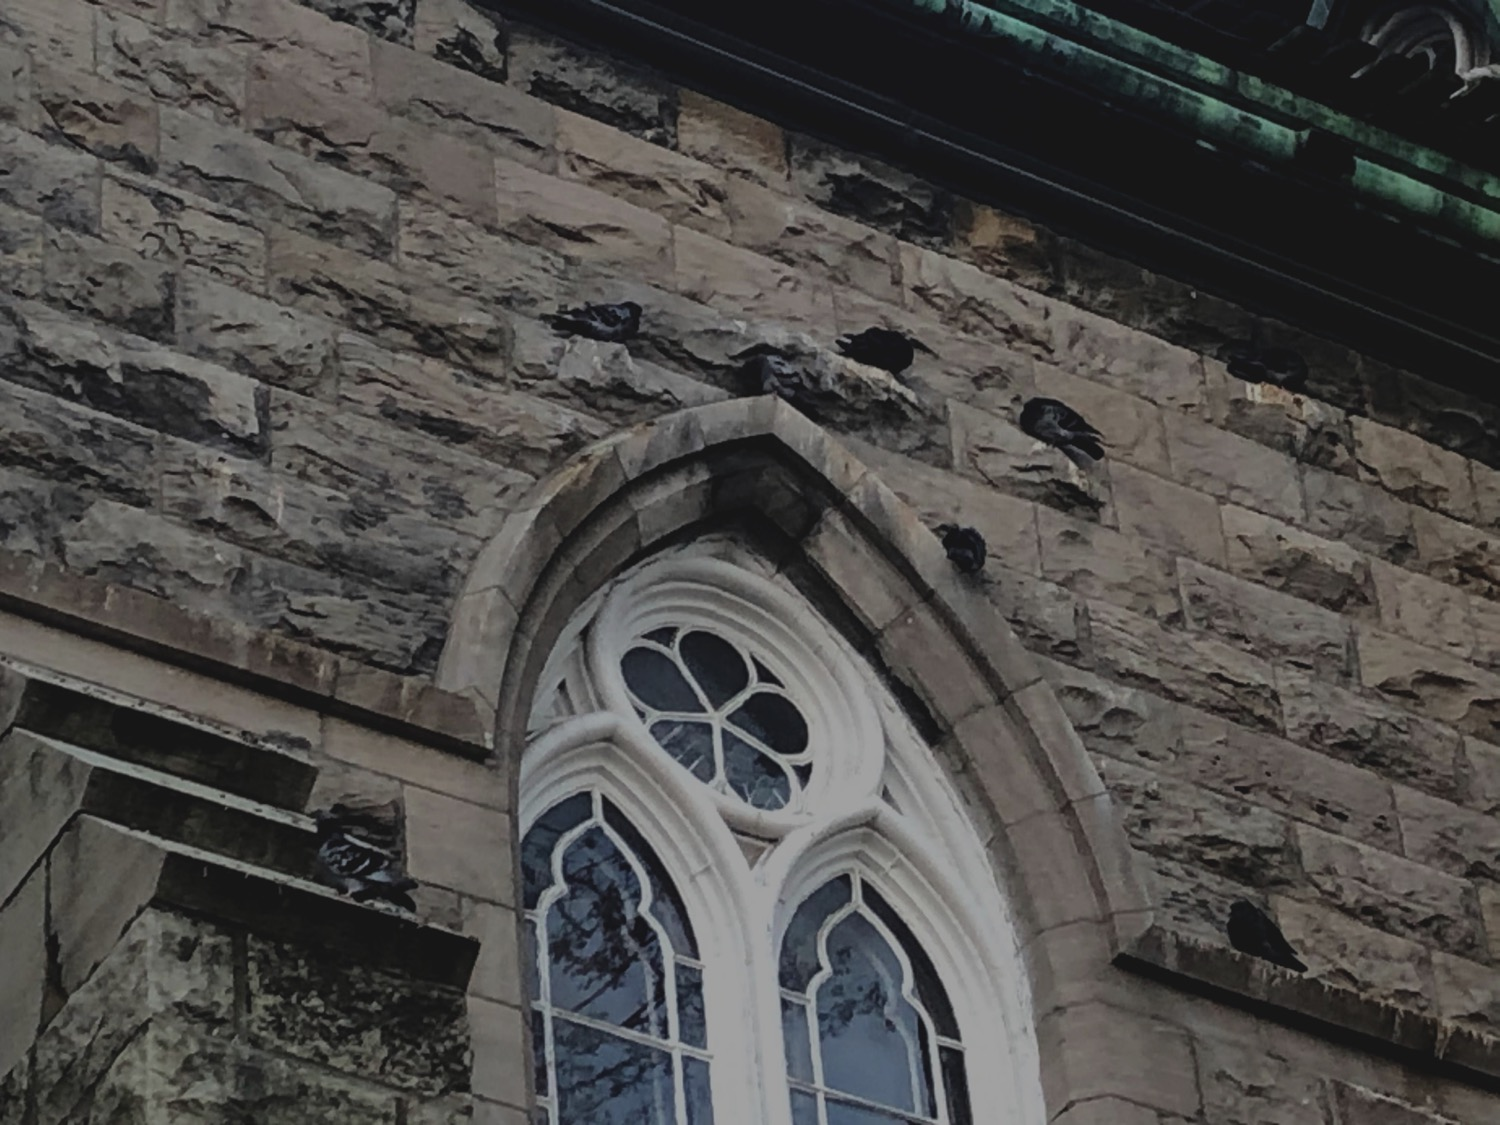
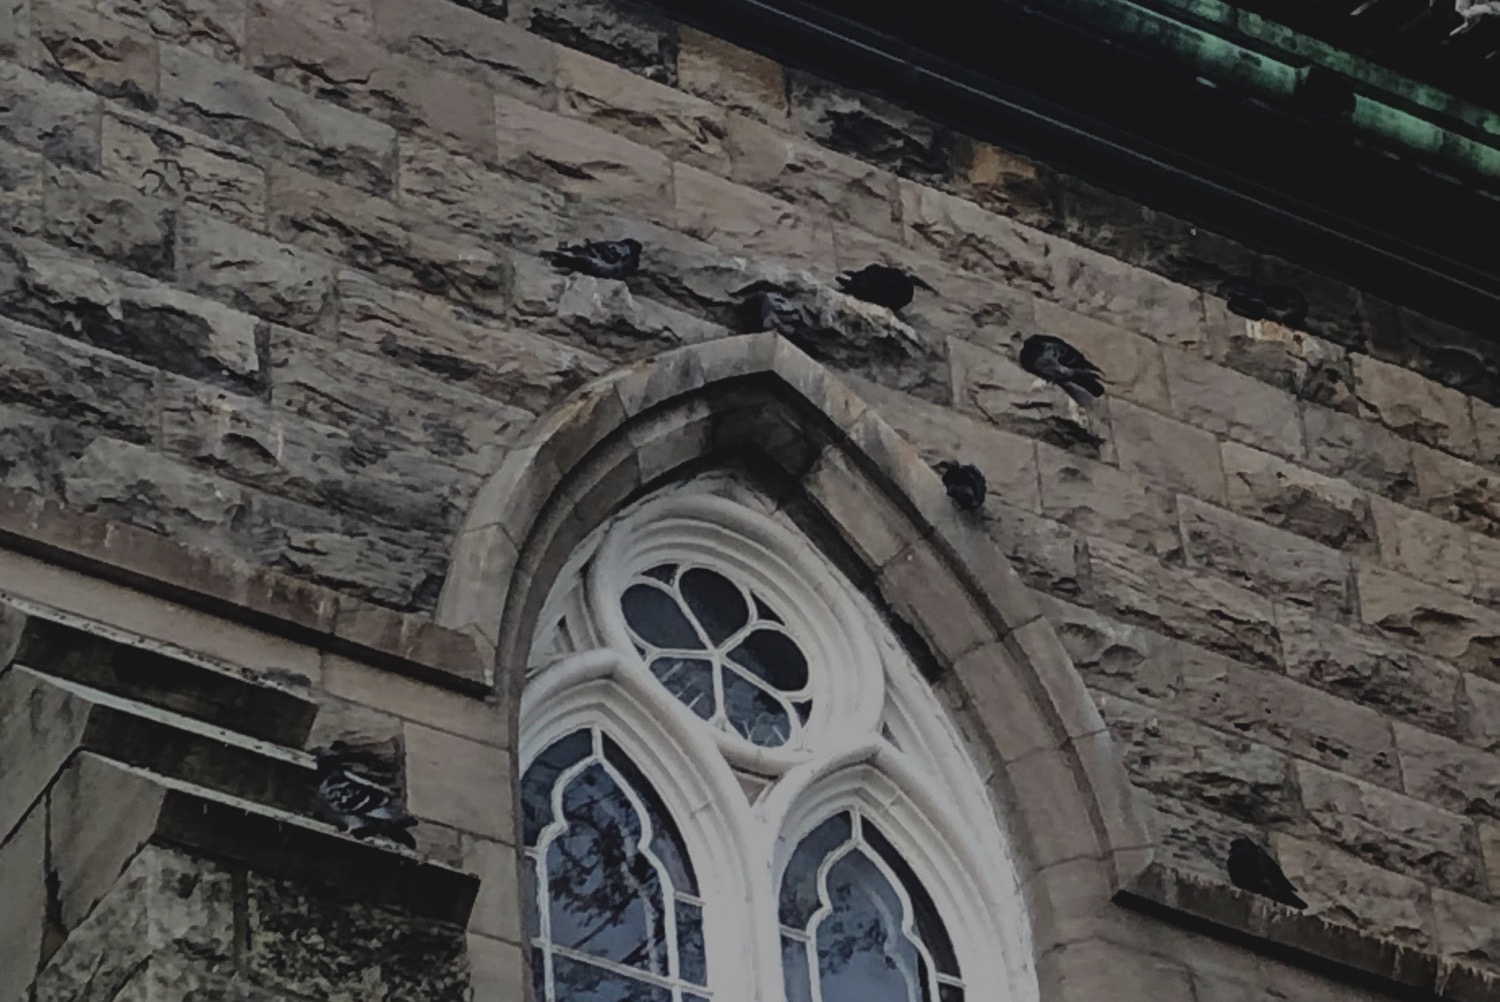
Diffusion section and graphics adjustments

diff --git a/thesis.tex b/thesis.tex
@@ -651,7 +651,7 @@ This examination is by no means exhaustive examination, but instead illuminates 
 
 \section{What is a hyper-instrument?}
 
-Before attempting to define the hyper-instrument, let us begin with a more basic question: “What is an instrument?”
+Before attempting to define the hyper-instrument, let us begin with a more basic question: What is an instrument?
 One way to view a musical instrument is as an interface\footcite{noauthor_instrument_nodate}, allowing one to express thought in audible form. 
 Among the first instruments were undoubtedly the voice. 
 The human voice allows us to express ourselves in a near infinite variety.
@@ -892,7 +892,7 @@ The hyper-organ interface is designed to control not only the new Baroque organ 
 Furthermore, because this interface is MIDI controllable, its new expressive capacities as well as its more traditional ones are made more accessible to ehe general public, in a field that has for centuries been one of highly specialized instrumentalists. Not only can a non organ player design electroacoustic worksfor the hyper-organ of Orgelpark, such as with Robert van Heuman's work \textit{First Law of Kipple} for MIDI controlled Sauer organ and spatialized fixed media\footcite[190]{van_heumen_new_2014}, but one could envisage people from around the world writing for this interface without needing to travel to Amsterdam, overcoming the pipe organ's site specificity.
 
 The Orgelpark project is clearly oriented more towards McPherson's approach than other approaches investigated in this chapter.
-Their hyper-organ is essentially an expanded, instrumental approach, with a staggering degree of controllability at the level of tonal palette as well as in dynamic expressiviy.
+Their hyper-organ is essentially an expanded, instrumental approach, with a staggering degree of controllability at the level of tonal palette as well as in dynamic expressivity.
 At the same time, the integration of the MIDI protocol means that other approaches, such as synthesis, and triggering of recorded samples, are trivial, providing the means of integrating innumerable other technologies with the hyper-organ's instrumental approach.
 
 \section{Concluding thoughts}
@@ -916,7 +916,7 @@ In this chapter, I will discuss my own personal approach from a composer-perform
 \section{Context: l'église Saint-Édouard}
 
 The organ of l'église Saint-Édouard is a 1913 Casavant Frères work in the symphonic tradition. 
-It has three manuals, with two expressive boxes (the Récit and the Positif divisions), and electro-pneumatic action\footcite{noauthor_eglise_nodate-1}. 
+It has three manuals, with two expressive boxes (the Récit and the Positif divisions), and electro-pneumatic action\footcite{noauthor_eglise_nodate}. 
 
 One of the first major limitations in terms of integrating digital technologies with this organ was the lack of MIDI. 
 Many modern organs, such as the hyper-organ at Orgelpark mentioned in the previous chapter, allow access to its interface through MIDI, yielding the possibility of an integration of acoustic and digital controls. 
@@ -926,9 +926,9 @@ My approach to working with this limitation will be explored in the following se
 
 This organ also has a unique and interesting history. 
 It was taken down entirely in the 1950s, with the intention of being sold. 
-Nearly abandoned, sitting in boxes in the crypt, it was rediscovered with the arrival of a new administration and reinstalled. 
+Nearly abandoned, sitting in boxes in the crypt, it was rediscovered with the arrival of a new administration and reinstalled\footcite{noauthor_eglise_nodate}. 
 Rather than placing it in its original place, however, they decided to relocate it to the north transept tribune where it sits today. 
-I haven't been able to find why they made this decision, but I imagine that it was to bring a sense of intimacy and presence to the music-making, as this position is much closer to the congregation and the singer. 
+This rare placement brings a sense of intimacy and presence to the music-making, as the organ is is much closer to the congregation and the singer. 
 In later chapters, I will discuss in detail the ways that I have integrated this rich history into the poetic fabric of the piece.
 
 \section{Aesthetic prioritisation and modal approach}
@@ -936,14 +936,14 @@ In later chapters, I will discuss in detail the ways that I have integrated this
 In developing an augmented interface, a central question is: In what way will the interface be augmented?
 As we have seen in the previous chapter, many hyper-instruments have made use of gesture tracking.
 Taking the pipe organ, gestural mapping could be a logical choice, as the horizontal left/right plane is essential for navigating pitch space.
-At the same time, the infinitely nuanced nature of gesture is a completely foreign concept to the organ, which operates almost exclusively in the discrete realm, a note being either on or off, and a stop being either engaged or disengaged.
+However, the infinitely nuanced nature of gesture is a completely foreign concept to the organ, which operates almost exclusively in the discrete realm---a note being either on or off, and a stop being either engaged or disengaged.
 The endlessly subtle, multidimensional contours of gesture could not be further removed.
 Another compelling option would be to add key sensitivity to the keyboard, like with Mcpherson's Magnetic Resonator Piano, and Orgelpark's hyper-organ. 
 
-At the same time, for the construction of my interface, I wanted to remain as true as possible to the tradition of the instrument itself, and what could be more traditional for the pipe organ than adding another keyboard?
+At the same time, for the construction of my interface, I wanted to remain as close as possible to the tradition of the instrument, and what could be more traditional for the pipe organ than adding another keyboard?
 MIDI keyboards have been used since the hyper-instrument prototypes in MIT's Media Lab, and have now reached a state of ubiquity that could be considered passé, yet at the same time, I argue that a MIDI keyboard is a particularly appropriate choice for the pipe organ, as it is in line with the traditional method of interfacing with the instrument.
 
-At the same time, the pipe organ of l'église Saint-Édouard's lack of direct MIDI integration means that any MIDI based approach is not directly linked to the control interface itself, leading to what I will call the question of coherence, namely: Can this be considered to be one hyper-instrument, and not simply a duet between two different instruments?
+The pipe organ of l'église Saint-Édouard's lack of direct MIDI integration means that any MIDI based approach is not directly linked to the control interface itself, leading to what I will call the question of coherence, namely: Can this be considered to be one hyper-instrument, and not simply a duet between two different instruments?
 This is a subjective question, and the conclusion that it is a duet between two instruments is certainly reasonable.
 
 My case, however, for a one-instrument perspective is reliant on the history of the pipe organ as one of the most modular instruments that exists.
@@ -952,7 +952,7 @@ One could say that the Positif division is one instrument, whereas the Récit is
 They are often even neatly separated in their own wooden boxes, called enclosures.
 The interface is also already modular, with multiple keyboards representing different tonal palettes.
 
-My keyboard is in line with this tradition, simply opening up yet more opportunities for timbral explorations.
+A MIDI keyboard is in line with this tradition, simply opening up yet more opportunities for timbral explorations.
 Furthermore, the fact that the MIDI keyboard is intended to be played by the same person (me in this case), increases the sense of a unified interface.
 The concept of a duet could be said to be a dialogue between to instruments, but it could be equally defined as a dialogue between two people.
 
@@ -960,6 +960,7 @@ Here comes another \hl{dilemma}, however: What does this MIDI interface play?
 It would be all too easy to have the MIDI keyboard play some nice filtered saw waves or evolving pads and call it a day, but where would the sonic link be?
 We could say that there is a link in interface, and a link in shared space, and that would be enough, but I wanted to go further and emulate the sound of the pipe organ, based on analyses of the pipe organ of l'église Saint-Édouard, not with the goal of simple reproduction, but with the end of manipulating, transforming, and mutating these emulations in ways that would be impossible for the traditional instrument, in the hopes of achieving a dialectic, or a sort of continuum of acoustic and synthetic, which interact, overlap, disagree, and sometimes fuse.
 
+Furthermore, use of a MIDI keyboard provides a strong divergent control interface, but lacks a convergent element. In order to explore a convergent approach in my interface design, I decided to incorporate live microphone capture with signal processing. 
 %%cmt Correction orthographique
 
 Ultimately, I had four main priorities in designing my interface:
@@ -967,7 +968,7 @@ Ultimately, I had four main priorities in designing my interface:
 \begin{enumerate}
   \item Integration with the pipe organ's soundworld
 
-  \item Extention of this soundworld
+  \item Extension of this soundworld
    
   \item Use of both convergent and divergent mappings
 
@@ -1008,7 +1009,7 @@ In the future, it would be good to have methods of extracting more objective dat
 \begin{figure}[h]
     \centering
     \subfigure{
-        \includegraphics[scale=0.24]{bourdon}
+        \includegraphics[scale=0.23]{bourdon}
     }
 	\caption{Analysis of the note C in every octave of the 8' Bourdon of the Récit division using Sonic Visualiser. White numbers represent the number of harmonics present in a note, a red number represents a particularily strong harmonic, and a blue number a weak one.}
     \label{fig:bourdon_analysis}
@@ -1020,40 +1021,15 @@ In addition to emulating various organ stops, OrganLab permits what I call mutat
 \hl{The mutations of OrganLab are quite different from the tradition meaning of this term} (a stop that sounds a note other than the key depressed\hlst{(usually the fifth or the third)}, and refers to any process that alters an emulation.  
 \hl{In fact, there are theoretically limitless mutations, but for a few examples: continuous pitches (glissandi); interpolation from one stop to another; decoupling of harmonic and transient content; and dynamic envelopes.} 
 These mutations allow me to fulfill my second and fourth aesthetic priorities, \hlst{allowing me to extend }\hl{extending} the organ\hl{'}s soundworld in a way that can be seamlessly navigated.\hlst{, or interpolated.} 
-\hlst{Finally}The keyboard \hl{also} represents a prominent divergent mapping, allowing independent control of the synthesis software.  
 
 %%cmt Ajout de précision et de la fluidité de l'écriture
 
 \subsection{Live processing and effects}
 
 The second modality, live effects, \hl{provides} a simpler way of integrating with the sound world of the pipe organ, recording the sound with a microphone rather than reconstructing it from scratch. 
-Extending the sound world \hl{is then a matter} of applying any imaginable effect to the microphone's signal \footnote{I chose to use Ableton Live instead of python its robust plugins, my familiarity with the software, and to ensure the specificity of the role of OrganLab}. 
-\hl{Using live effects also} allowed me to satisfy the third priority hl{of using} both convergent and divergent mappings. 
-\hlst{While I was more intrigued by the divergent approach, I was interested in experimenting with a convergent approach, and }\hl{From an aesthetic perspectice,} I felt that adding effects to a pipe organ, essentially treating it \hlst{more} like an electric guitar \hlst{than a pipe organ}, would immediately situate it in \hlst{an aesthetic} paradigm that \hl{would not} normally be associated with the organ or a sacred setting\footnote{For a demonstration of several live effects, please refer to the file effects\_demo.mp4 that accompanies this thesis.}. . 
+Extending the sound world \hl{is then a matter} of applying any imaginable effect to the microphone's signal. As mentioned earlier, this provides a convergent mapping, and \hlst{While I was more intrigued by the divergent approach, I was interested in experimenting with a convergent approach, and }\hl{from an aesthetic perspective,} I felt that adding effects to a pipe organ, essentially treating it \hlst{more} like an electric guitar \hlst{than a pipe organ}, would immediately situate it in a\hlst{an aesthetic} paradigm that \hl{would not} normally be associated with the organ or a sacred setting\footnote{For a demonstration of several live effects, please refer to the file effects\_demo.mp4 that accompanies this thesis.}.
 
-\hl{The sound is diffused through five speakers that are placed throughout the church} (see \cref{fig:stageplot}).
-\hl{Speaker one is placed near the organ in the north transept tribune, on the left side, and is used mainly for synthesized sounds, which use only this speaker, in order to establish an instrumental synergy between the acoustic and synthetic organ.
-
-Speaker two and three are the house system of the church, and are on the left and right sides of the choir, respectively. 
-They are used mainly for playing pre-recorded sounds.
-On the one hand, this creates an immersive, stereo experience of these sounds, and on the other, highlights their atemporality by associating them with the most visually prominent area of the church, void of human presence.
-This also has a sacred implication, invoking timelessness while centering the sound around the alter.
-
-Speaker four is positioned in the opposing tribune in the south transept, and is used for live effects.
-This has a very practical purpose, which is avoiding feedback.
-In a resonant space such as the church, it is difficult to avoid feedback when using delay-based effects, and so placing the speaker as far as possible from the microphone is useful.
-From a poetic perspective, this opposition creates a tension between the acoustic organ and its processed sound. 
-This is particularly evident when delay is applied, as the resultant echo is clearly differentiated from the sound source.
-In terms of architecture, the church being symmetrical on the east-west axis, the south and north transepts can be seen as mirrors of eachother, the echos representing an inner communication and a deeper echo through history.  
-
-The fifth and final speaker is located in the west gallery, and is the only one that is not connected to my computer.
-This is due to both the impracticality of wiring XLR cables over the distance between the organ console and the west gallery, and the four output limit of my audio interface.
-Instead, a Bluetooth speaker is used, which is controlled by a helper that plays audio off of a cell phone.
-Though this speaker is less flexible and not directly integrated with the others, it was important to me to highlight the unique heritage of the organ of l'église Saint-Édouard and its history of relocation}\footcite{noauthor_eglise_nodate}. 
-
-%%cmt Reformulation de la déscription de la diffusion sonore au temps présent, et sans décrire les autres options considérées.
-
-\customincludegraphics[scale=0.28]{stageplot_ste-edouard2}{fig:stageplot}{A view of l'église Saint-Édouard from above, showing the microphone and five speaker diffusion layout in relation to the organ console and the organ itself.}
+I chose to use Ableton Live instead of python for its robust plugins, my familiarity with the software, and to ensure the specificity of the role of OrganLab. As of the writing of this paper, I have explored reverb, distortion, and delay, but in the future it would be interesting to try other effects such as chorus, phaser, and pitch shifting. 
 
 \subsection{Fixed media}
 
@@ -1094,9 +1070,35 @@ The sound files are organised into the clips of two tracks, to allow for certain
 Originally I used OSC, but found during a test performance during les journées de patrimoine of 2023, that the OSC was simply not reliable enough to be a sole solution. 
 Ulimately, I still made use of OSC, using Touch OSC on my phone, for moments when I am no near the interface, but otherwise I used a small Akai keyboard sitting to the left of me on the organ bench.}
 
+\section{Diffusion}
+
+\hl{The sound is diffused through five speakers that are placed throughout the church} (see \cref{fig:stageplot}).
+\hl{Speaker one is placed near the organ in the north transept tribune, on the left side, and is used mainly for synthesized sounds, which use only this speaker, in order to establish an instrumental synergy between the acoustic and synthetic organ.
+
+Speaker two and three are the house system of the church, and are on the left and right sides of the choir, respectively. 
+They are used mainly for playing pre-recorded sounds.
+On the one hand, this creates an immersive, stereo experience of these sounds, and on the other, highlights their atemporality by associating them with the most visually prominent area of the church, void of human presence.
+This also has a sacred implication, invoking timelessness while centering the sound around the alter.
+
+Speaker four is positioned in the opposing tribune in the south transept, and is used for live effects.
+This has a very practical purpose, which is avoiding feedback.
+In a resonant space such as the church, it is difficult to avoid feedback when using delay-based effects, and so placing the speaker as far as possible from the microphone is useful.
+From a poetic perspective, this opposition creates a tension between the acoustic organ and its processed sound. 
+This is particularly evident when delay is applied, as the resultant echo is clearly differentiated from the sound source.
+In terms of architecture, the church being symmetrical on the east-west axis, the south and north transepts can be seen as mirrors of eachother, the echos representing an inner communication and a deeper echo through history.  
+
+The fifth and final speaker is located in the west gallery, and is the only one that is not connected to my computer.
+This is due to both the impracticality of wiring XLR cables over the distance between the organ console and the west gallery, and the four output limit of my audio interface.
+Instead, a Bluetooth speaker is used, which is controlled by a helper that plays audio off of a cell phone.
+Though this speaker is less flexible and not directly integrated with the others, it was important to me to highlight the unique heritage of the organ of l'église Saint-Édouard and its history of relocation mentioned previously}. 
+
+%%cmt Reformulation de la déscription de la diffusion sonore au temps présent, et sans décrire les autres options considérées.
+
+\customincludegraphics[scale=0.27]{stageplot_ste-edouard2}{fig:stageplot}{A view of l'église Saint-Édouard from above, showing the microphone and five speaker diffusion layout in relation to the organ console and the organ itself.}
+
 \chapter{Creative approach}
 
-\epigraph{\textit{‘‘What these histories so fundamentally reveal is that the performing arts are really an instable mixture amalgamating light, space, sound, image, bodies, architecture, materials, machines, code, and a perceiving public into unique spatiotemporial events.’’}\footnotemark}{}
+\epigraph{\textit{What these histories so fundamentally reveal is that the performing arts are really an instable mixture amalgamating light, space, sound, image, bodies, architecture, materials, machines, code, and a perceiving public into unique spatiotemporial events.}\footnotemark}{}
 \footnotetext[1]{\cite[xxii]{salter_entangled_2010}}
 
 The construction of a hyper-instrument is no easy task.
@@ -1262,7 +1264,7 @@ I see the view of the city from the bell towers as the rain falls.
         \includegraphics[scale=0.15]{DSC00117_3}
     }
     \subfigure{
-        \includegraphics[scale=0.13]{pigeons}
+        \includegraphics[scale=0.15]{pigeons}
     }
     \caption{The stairwell leading to the organ loft on the left, and the pigeons of l'église Saint-Édouard nestled into the church's stone walls on the right.}
     \label{fig:station7}
@@ -2429,6 +2431,9 @@ Through the guidance and friendship offered by my colleagues at l'Université de
     
     \item \hangindent=2em \textbf{effects\_demo.mp4}
     \par A short demo of live effects processing used in \textit{Élégies}. Created for the Y6 ACTOR conference in Vancouver in July, 2024.
+
+    \item \hangindent=2em \textbf{resonator\_tube\_video.mp4}
+    \par A video which gives a brief background of the pipe organs history of technological innovation including a demonstration of my hyper-organ interface. Created for the YouTube channel ResonatorTube and set to be released in 2025.
 
     \item \hangindent=2em \textbf{jardin\_de\_givre\_score.pdf}
     \par Score for \textit{Jardin de givre.}
